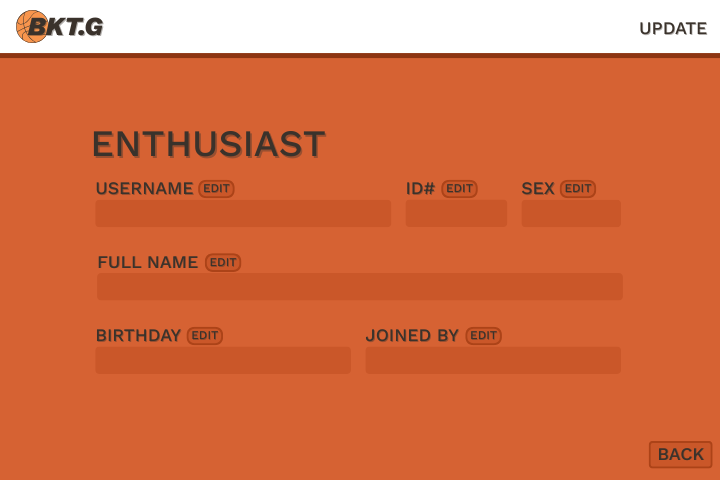
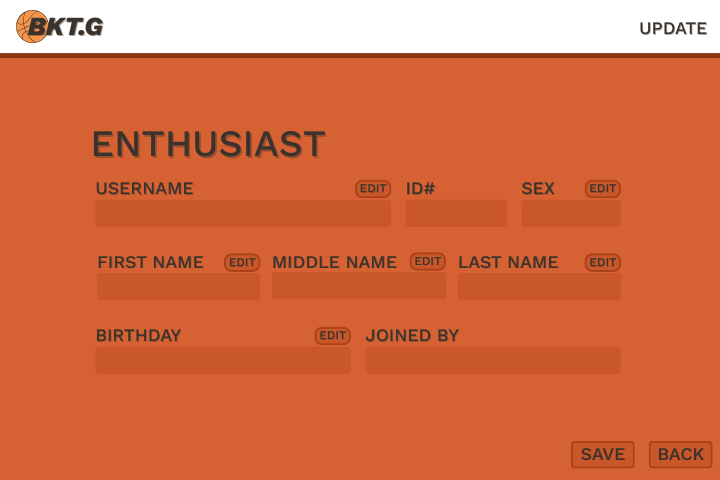
feat: implement update enthusiast gui

diff --git a/src/view/GUIAdminView.java b/src/view/GUIAdminView.java
@@ -7,6 +7,8 @@ import util.*;
 import java.util.LinkedHashMap;
 import java.time.LocalDate;
 import java.time.DateTimeException;
+import java.time.format.DateTimeFormatter;
+import java.time.format.DateTimeParseException;
 import javax.swing.*;
 import java.awt.*;
 import java.awt.event.*;
@@ -44,6 +46,8 @@ public class GUIAdminView {
 		cp.revalidate();
 		cp.repaint();
 	}
+
+	//ENTHUSIASTS DASHBOARD!!!!!!!
 
 	public void enthusiastDashboardPanel() {
 		cp = BackgroundPanel.create("assets/admin/enthusiasts_crud.png");
@@ -108,6 +112,13 @@ public class GUIAdminView {
 				String middleName = middleNameField.getText().trim();
 				String sex = sexField.getText().trim();
 
+				if(username.isEmpty() || lastName.isEmpty() || 
+					firstName.isEmpty() || sex.isEmpty()) {
+					JOptionPane.showMessageDialog(frame, 
+						"Please fill in all required fields (middle name is optional).");
+   				return; // stop further processing
+				}
+
 				int year = Integer.parseInt(yearField.getText().trim());
       		int month = Integer.parseInt(monthField.getText().trim());
    			int day = Integer.parseInt(dayField.getText().trim());
@@ -121,13 +132,6 @@ public class GUIAdminView {
 					sex, 
 					new CustomTimestamp(year, month, day)
 				);
-
-				if(username.isEmpty() || lastName.isEmpty() || 
-					firstName.isEmpty() || sex.isEmpty()) {
-					JOptionPane.showMessageDialog(frame, 
-						"Please fill in all required fields (middle name is optional).");
-   				return; // stop further processing
-				}
 
 				if(middleName.isEmpty()) {
 					enthusiast.setMiddleName(null);
@@ -210,13 +214,177 @@ public class GUIAdminView {
 		cp.revalidate();
 		cp.repaint();
 	}
-	
+
+	public void searchUpdateEnthusiastPanel() {
+		cp = BackgroundPanel.create("assets/admin/enthusiast/search.png");
+		cp.setLayout(null);
+		frame.setContentPane(cp);
+
+		JButton submitBtn = GUIUtil.createIButton(528,260,98,27);
+		JTextField field = GUIUtil.createTextField(142,261,367,27);
+		JButton backBtn = GUIUtil.createIButton(648,440,64,27);
+		cp.add(submitBtn);
+		cp.add(field);
+		cp.add(backBtn);
+
+		backBtn.addActionListener(e -> enthusiastDashboardPanel());
+		submitBtn.addActionListener(e -> {
+			String input = field.getText().trim();
+			field.setText("");
+
+			try {
+				int id = Integer.parseInt(input);
+				if(!controller.updateEnthusiastView(id)) {
+					JOptionPane.showMessageDialog(frame,
+						"ID does not exist.");
+				}
+			} catch(NumberFormatException nfe) {
+				JOptionPane.showMessageDialog(frame,
+					"Invalid ID number");
+			}
+		});
+		
+		cp.revalidate();
+		cp.repaint();
+	}
+
+	public void updateEnthusiastPanel(Enthusiast enthusiast) {
+		cp = BackgroundPanel.create("assets/admin/enthusiast/update_view.png");
+		cp.setLayout(null);
+		frame.setContentPane(cp);
+
+		JLabel username = GUIUtil.createText(enthusiast.getUsername(),100,199,286,27);
+		JLabel id = GUIUtil.createText(String.valueOf(enthusiast.getID()),410,199,92,27);
+		JLabel sex = GUIUtil.createText(enthusiast.getSex(),526,199,89,27);
+		JLabel firstname = GUIUtil.createText(enthusiast.getFirstName(),102,273,153,27);
+		JLabel middlename = GUIUtil.createText(enthusiast.getMiddleName(),276,271,164,27);
+		JLabel lastname = GUIUtil.createText(enthusiast.getLastName(),462,273,153,27);
+		JLabel birthday = GUIUtil.createText(enthusiast.getDateOfBirth()
+				.getDisplayDate(),100,346,245,27);
+		JLabel joinedBy = GUIUtil.createText(enthusiast.getJoinDate()
+				.getDisplayDate(),370,346,245,27); 
+		JButton backBtn = GUIUtil.createIButton(648,440,64,27);
+		JButton saveBtn = GUIUtil.createIButton(570,440,64,27);
+		JButton editUsername = GUIUtil.createIButton(354,179,36,18);
+		JButton editFirstName = GUIUtil.createIButton(223,253,36,18);
+		JButton editMiddleName = GUIUtil.createIButton(409,252,36,18);
+		JButton editLastName = GUIUtil.createIButton(584,253,36,18);
+		JButton editSex = GUIUtil.createIButton(584,179,36,18);
+		JButton editBirthday = GUIUtil.createIButton(314,326,36,18);
+
+		cp.add(username);
+		cp.add(id);
+		cp.add(sex);
+		cp.add(firstname);
+		cp.add(middlename);
+		cp.add(lastname);
+		cp.add(birthday);
+		cp.add(joinedBy);
+		cp.add(backBtn);
+		cp.add(saveBtn);
+		cp.add(editUsername);
+		cp.add(editFirstName);
+		cp.add(editMiddleName);
+		cp.add(editLastName);
+		cp.add(editSex);
+		cp.add(editBirthday);
+
+		backBtn.addActionListener(e -> enthusiastDashboardPanel());
+		saveBtn.addActionListener(e -> controller.updateEnthusiast(enthusiast));
+		editUsername.addActionListener(e -> 
+				updateFieldEnthusiastPanel(enthusiast,"username"));
+		editFirstName.addActionListener(e -> 
+				updateFieldEnthusiastPanel(enthusiast,"first name"));
+		editMiddleName.addActionListener(e -> 
+				updateFieldEnthusiastPanel(enthusiast,"middle name"));
+		editLastName.addActionListener(e -> 
+				updateFieldEnthusiastPanel(enthusiast,"last name"));
+		editSex.addActionListener(e -> 
+				updateFieldEnthusiastPanel(enthusiast,"sex"));
+		editBirthday.addActionListener(e -> 
+				updateFieldEnthusiastPanel(enthusiast,"birthday"));
+
+		cp.revalidate();
+		cp.repaint();	
+
+	}
+
+	public void updateFieldEnthusiastPanel(Enthusiast enthusiast, String type) {
+		cp = BackgroundPanel.create("assets/admin/enthusiast/update_field.png");
+		cp.setLayout(null);
+		frame.setContentPane(cp);
+
+		JButton submitBtn = GUIUtil.createIButton(519,252,98,27);
+		JTextField field = GUIUtil.createTextField(100,252,400,27);
+		JButton backBtn = GUIUtil.createIButton(648,440,64,27);
+		cp.add(submitBtn);
+		cp.add(field);
+		cp.add(backBtn);
+
+		backBtn.addActionListener(e -> updateEnthusiastPanel(enthusiast));
+		submitBtn.addActionListener(e -> {
+			String input = field.getText().trim();
+			//check for invalid inputs
+			switch(type) {
+				case "username": case "sex": case "first name": 
+				case "last name": case "birthday":
+					if(input.isEmpty()) {
+						JOptionPane.showMessageDialog(frame, 
+							"Required Field! Please input update for " + type + ".");
+						return;
+					}
+			}
+
+			switch(type) {
+				case "username": 
+					enthusiast.setUsername(input);
+					break;
+				case "sex": 
+					enthusiast.setSex(input); 
+					break;
+				case "first name": 
+					enthusiast.setFirstName(input); 
+					break;
+				case "middle name":
+					if(input.isEmpty())
+						enthusiast.setMiddleName(null);
+					else
+						enthusiast.setMiddleName(input);
+					break;
+				case "last name":
+					enthusiast.setLastName(input);
+					break;
+				case "birthday":
+					DateTimeFormatter format = DateTimeFormatter.ofPattern("MM/dd/yyyy");	
+					try {
+						LocalDate date = LocalDate.parse(input, format);
+						String[] dateParts = input.split("/");
+						int month = Integer.parseInt(dateParts[0]);
+						int day = Integer.parseInt(dateParts[1]);
+						int year = Integer.parseInt(dateParts[2]);
+						enthusiast.setDateOfBirth(new CustomTimestamp(year, month, day));
+					} catch(DateTimeParseException dtpe) {
+						JOptionPane.showMessageDialog(frame, 
+							"Invalid Date! Please input it as MM/DD/YYYY");
+						return;
+					}
+					break;
+			}
+
+			updateEnthusiastPanel(enthusiast);
+		});
+		
+		cp.revalidate();
+		cp.repaint();
+		
+	}
+
 	public void searchDeleteEnthusiastPanel() {
 		cp = BackgroundPanel.create("assets/admin/enthusiast/search.png");
 		cp.setLayout(null);
 		frame.setContentPane(cp);
 
-		JButton submitBtn = GUIUtil.createIButton(568,260,98,27);
+		JButton submitBtn = GUIUtil.createIButton(528,260,98,27);
 		JTextField field = GUIUtil.createTextField(142,261,367,27);
 		JButton backBtn = GUIUtil.createIButton(648,440,64,27);
 		cp.add(submitBtn);
@@ -277,6 +445,8 @@ public class GUIAdminView {
 		cp.revalidate();
 		cp.repaint();	
 	}
+
+	//ENTHUSIASTS DASHBOARD!!!!!!!
 
 	public void show() { frame.setVisible(true); }
 	public void hide() { frame.setVisible(false); }

diff --git a/src/controller/AdminController.java b/src/controller/AdminController.java
@@ -42,6 +42,8 @@ public class AdminController {
 				view.viewAllEnthusiastPanel(getEnthusiastInformation());
 				break;
 			case "update":
+				System.out.println("Opening update...");
+				view.searchUpdateEnthusiastPanel();
 				break;
 			case "delete":
 				System.out.println("Opening search...");
@@ -64,6 +66,18 @@ public class AdminController {
 		view.viewEnthusiastPanel(enthusiast);
 	}
 
+	public boolean updateEnthusiastView(int ID) {
+		Enthusiast enthusiast = enthusiastModel.searchEnthusiastByID(ID);
+		if(enthusiast == null) return false; 
+		view.updateEnthusiastPanel(enthusiast);
+		return true;
+	}
+	
+	public void updateEnthusiast(Enthusiast updatedEnthusiast) {
+		Enthusiast enthusiast = enthusiastModel.updateEnthusiast(updatedEnthusiast);
+		view.viewEnthusiastPanel(enthusiast);
+	}
+		
 	public boolean deleteEnthusiastView(int ID) {
 		Enthusiast enthusiast = enthusiastModel.searchEnthusiastByID(ID);
 		if(enthusiast == null) return false; 

diff --git a/src/model/Enthusiast.java b/src/model/Enthusiast.java
@@ -65,13 +65,14 @@ public class Enthusiast {
 		if(other.getUsername() != null) { this.username = other.getUsername(); }
 		if(other.getLastName() != null) { this.lastName = other.getLastName(); }
 		if(other.getFirstName() != null) { this.firstName = other.getFirstName(); }
-		if(other.getMiddleName() != null) { this.middleName = other.getMiddleName(); }
 		if(other.getDateOfBirth() != null) { this.dateOfBirth = other.getDateOfBirth(); }
 		if(other.getSex() != null) { this.sex = other.getSex(); }
+
+		this.middleName = other.getMiddleName();
 	}
 
 	public String getSimpleInfo() {
-		return "#" + String.valueOf(ID) + " " + username;
+		return "ID#" + String.valueOf(ID) + " " + username;
 	}
 	public String getFullName() {
 		String name = lastName + ", " + firstName;

diff --git a/src/model/EnthusiastManagement.java b/src/model/EnthusiastManagement.java
@@ -82,14 +82,7 @@ public class EnthusiastManagement {
 	 * @param updatedEnthusiast The reference to the updated Enthusiast
 	 * @return The newly updated enthusiast 
 	 * */
-	public Enthusiast updateEnthusiast(Enthusiast oldEnthusiast, Enthusiast updatedEnthusiast) {
-		//Puts the old enthusiast into a reference of it
-		//using the implemented update function, it changes all the
-		//values accordingly
-		Enthusiast enthusiastReference = 
-			searchEnthusiastByID(oldEnthusiast.getID());
-		enthusiastReference.update(updatedEnthusiast);
-
+	public Enthusiast updateEnthusiast(Enthusiast enthusiastReference) {
 		String sql = "UPDATE enthusiast SET " +
 			"username = ?, " +
 			"lastname = ?, " + 

diff --git a/src/view/GUIUtil.java b/src/view/GUIUtil.java
@@ -148,7 +148,7 @@ public class GUIUtil {
 			JButton btn = createCenterImageButton("assets/banner.png",115); 
 			btn.setHorizontalTextPosition(SwingConstants.RIGHT);
 			btn.setVerticalTextPosition(SwingConstants.CENTER);
-			btn.setIconTextGap(-640);
+			btn.setIconTextGap(-620);
 			btn.setMargin(new Insets(0, 10, 0, 10));
 			btn.setText(value);
 			btn.setLocation(x,yStart+i*yGap);
